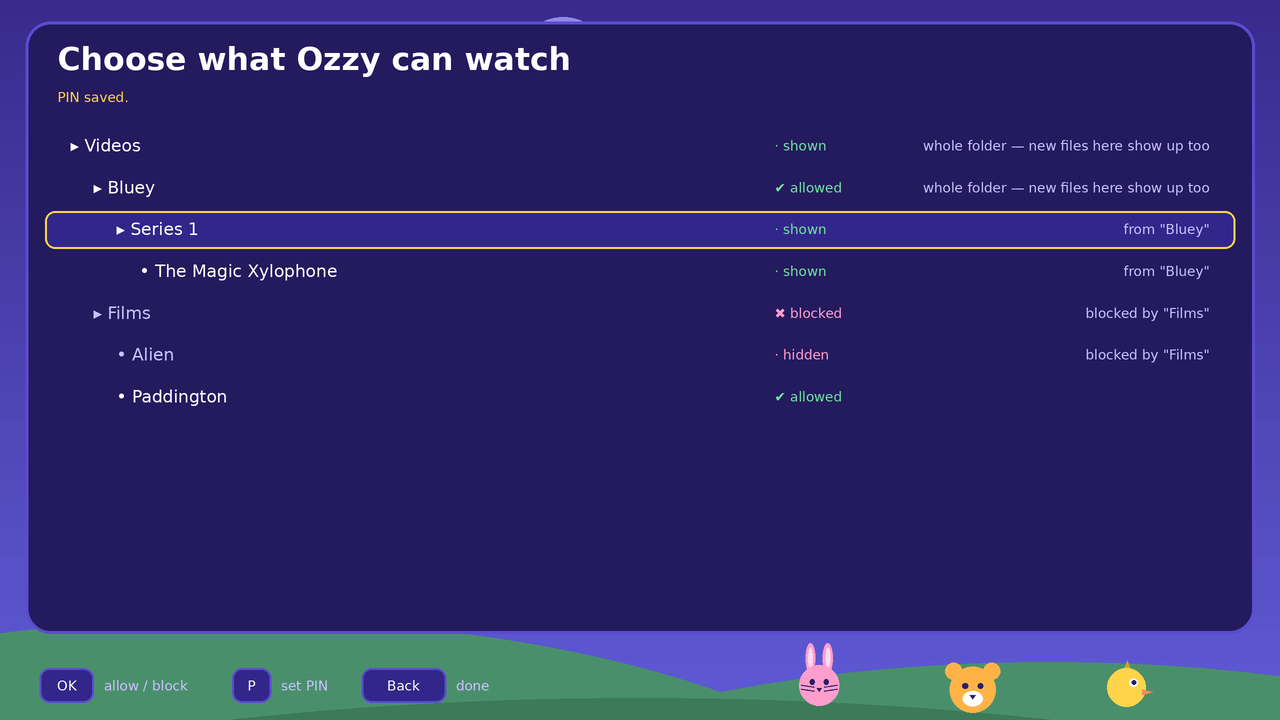
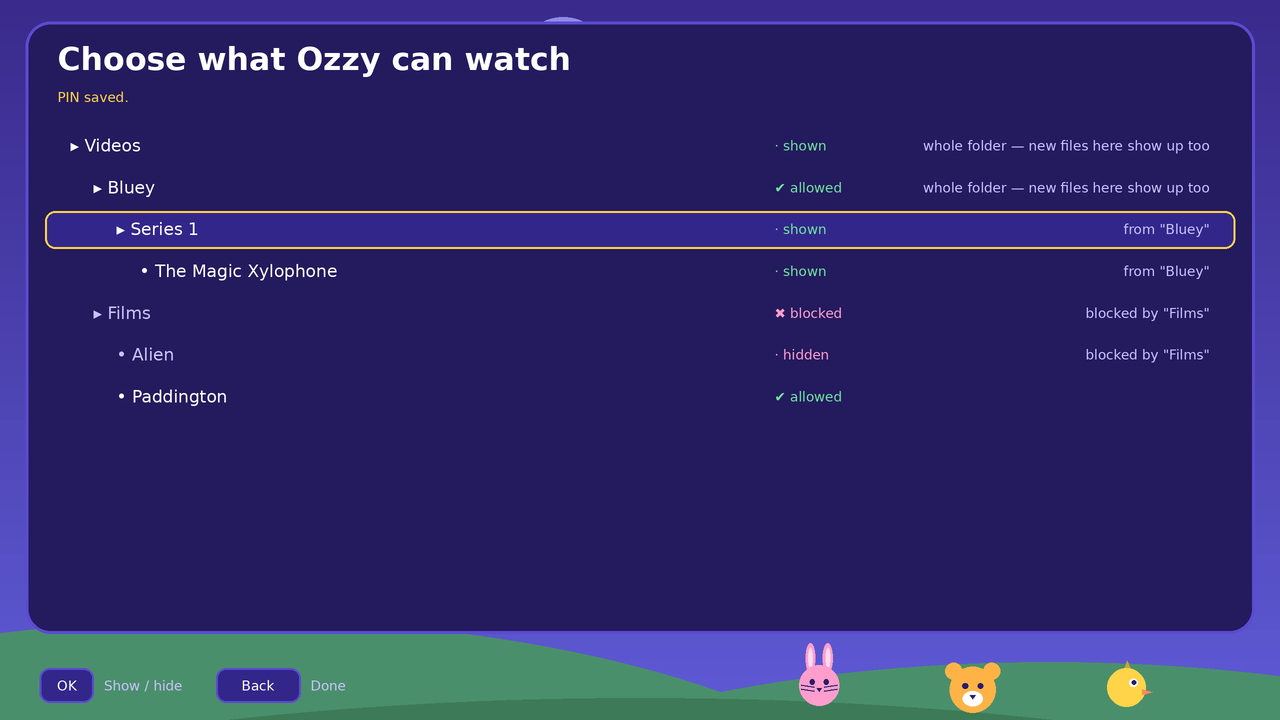
Add files via upload

Changed region(s): [[0.0938, 0.9167, 0.375, 0.9778]]

diff --git a/ozzytv/app.py b/ozzytv/app.py
@@ -362,6 +362,12 @@ class OzzyApp:
         the thing they had yesterday, whose name they cannot read.
         """
         rail: list[RailItem] = []
+        if self._current() is None:
+            # Home, always, at the top — not only when the drive is empty. It is
+            # where the DVD drive lives and the way in to Settings, and a menu
+            # that exists only when there is nothing to watch is not a menu.
+            rail.append(RailItem(title="Home", rel=HOME_KEY, root_index=-1,
+                                 count=len(self._home_tiles()), is_here=True))
         if self._current() is None and self._recent():
             rail.append(RailItem(title="Watch again", rel=RECENT_KEY, root_index=-1,
                                  count=len(self._recent()), is_here=True))
@@ -404,6 +410,8 @@ class OzzyApp:
         if not rail:
             return []
         sel = rail[min(self.rail_cursor, len(rail) - 1)]
+        if sel.rel == HOME_KEY:
+            return []                      # not library nodes; see view()
         if sel.rel == RECENT_KEY:
             return self._recent()
         if sel.rel == LOOSE_KEY:
@@ -448,6 +456,12 @@ class OzzyApp:
         if not rail:
             self._home_key(action)
             return
+        if rail[min(self.rail_cursor, len(rail) - 1)].rel == HOME_KEY \
+                and self.focus is Pane.GRID:
+            self._home_key(action)
+            if action is Action.BACK or (action is Action.LEFT):
+                self.focus = Pane.RAIL
+            return
         grid = self._grid()
         # One column: the shows are a LIST now, so Up and Down walk it one
         # at a time and Left is the way back to the shelves. The grid arithmetic
@@ -463,7 +477,8 @@ class OzzyApp:
             if action in (Action.UP, Action.DOWN) and rail:
                 self._rail_rel = rail[self.rail_cursor].rel
             elif action in (Action.RIGHT, Action.SELECT):
-                if grid:
+                on_home = rail[self.rail_cursor].rel == HOME_KEY
+                if grid or (on_home and self._home_tiles()):
                     self.focus = Pane.GRID
                     self.cursor = 0
             elif action is Action.BACK:
@@ -496,6 +511,13 @@ class OzzyApp:
             self._open(grid)
         elif action is Action.BACK:
             self.focus = Pane.RAIL
+
+    def _on_home(self) -> bool:
+        """Is the shelf under the cursor the Home shelf?"""
+        return self._rail_rel == HOME_KEY or (
+            self._current() is None and not self._rail_rel
+            and (self._rail()[self.rail_cursor].rel == HOME_KEY
+                 if self._rail() else False))
 
     def _home_key(self, action: Action) -> None:
         """The home screen with an empty library.
@@ -599,7 +621,8 @@ class OzzyApp:
                 self.cursor = 0
         elif kind == "tile":
             grid = self._grid()
-            if not self._rail():
+            r = self._rail()
+            if not r or r[min(self.rail_cursor, len(r) - 1)].rel == HOME_KEY:
                 tiles = self._home_tiles()
                 if 0 <= i < len(tiles):
                     self.cursor = i
@@ -631,6 +654,12 @@ class OzzyApp:
                     self.rail_cursor = i
                     return rail
         self.rail_cursor = min(self.rail_cursor, len(rail) - 1)
+        # Home is the first shelf, but it is not where you start. A child wants
+        # the thing they watched yesterday, not a disc drive — Home is one press
+        # UP from wherever they land, which is where a grown-up will look for it.
+        if (not self._rail_rel and len(rail) > 1
+                and rail[self.rail_cursor].rel == HOME_KEY):
+            self.rail_cursor = 1
         self._rail_rel = rail[self.rail_cursor].rel
         return rail
 
@@ -698,12 +727,17 @@ class OzzyApp:
         state = self.playback.tick()
         if state in (PlayState.ENDED, PlayState.ERROR):
             failed = state is PlayState.ERROR
+            what = self.playback.now.path if self.playback.now else ""
             self.playback.stop()
             self.screen = Screen.BROWSE
             if failed:
+                # Say WHICH file, and say where the reason is. "That one would
+                # not play" sent whoever had to fix it looking at the television
+                # instead of at the one place that knows: VLC's own log.
+                log.error("playback failed for %s", what)
                 self.screen = Screen.MESSAGE
-                self.message = ("That one would not play.\n\n"
-                                "Ask a grown-up to check it.")
+                self.message = (f"This would not play:\n{Path(what).name}\n\n"
+                                f"journalctl -u ozzytv@$USER -n 30")
 
     # -- the keypad --
     def _open_parent(self) -> None:
@@ -906,6 +940,14 @@ class OzzyApp:
                         cursor=min(self.cursor, max(0, len(self._home_tiles()) - 1)),
                         message=NOTHING_ALLOWED if any_media else NO_MEDIA,
                         welcome=welcome_steps(self.settings, allowed=any_media))
+        on_home = rail[min(self.rail_cursor, len(rail) - 1)].rel == HOME_KEY
+        if on_home:
+            home = self._home_tiles()
+            return View(screen=Screen.BROWSE.value, heading="Home",
+                        subheading="Ozzy TV", rail=rail,
+                        rail_cursor=self.rail_cursor, focus=self.focus.value,
+                        tiles=home, cursor=min(self.cursor, max(0, len(home) - 1)),
+                        can_go_back=bool(self._stack))
         items = self._grid()
         tiles = []
         for ri, n in items:

diff --git a/ozzytv/tkview.py b/ozzytv/tkview.py
@@ -26,6 +26,11 @@ log = logging.getLogger(__name__)
 TICK_MS = 250          # four times a second: smooth enough for a progress bar,
                        # idle enough to leave the CPU for decoding
 POINTER_IDLE_MS = 3000 # how long the mouse pointer stays visible after it stops
+# An ACTUAL arrow. cursor="" does not mean "the normal pointer" — it means "this
+# window has no cursor of its own", so X walks up to the root window and uses
+# whatever is there. With no desktop and no window manager, nothing ever set
+# that, and the root's default is X_cursor: the big black X.
+ARROW = "left_ptr"
 
 # Font role -> (family, weight, size as a fraction of the screen height). Kept
 # beside tools/mockup.py's copy of the same table; if they drift, a mockup stops
@@ -73,6 +78,9 @@ class TkView:
             # exactly like a crash. An explicit geometry needs no WM.
             self.root.geometry(
                 f"{self.root.winfo_screenwidth()}x{self.root.winfo_screenheight()}+0+0")
+            # ...and then believe the WINDOW, not the screen, when drawing. See
+            # _screen_size: winfo_screenwidth() is the X VIRTUAL screen, which
+            # is not the monitor.
             # The pointer is hidden further down, once the widgets it has to be
             # set on actually exist.
             self._hide_the_pointer = True
@@ -110,6 +118,8 @@ class TkView:
         self.root.bind("<Motion>", self._on_motion)
         self._hide_pointer_after = None
         self._hits: list[tuple[float, float, float, float, str]] = []
+        self._last_size = (0, 0)
+        self.canvas.bind("<Configure>", self._on_resize)
         self.root.protocol("WM_DELETE_WINDOW", lambda: None)   # no way out but the PIN
 
     # ------------------------------------------------------------------ input
@@ -121,13 +131,38 @@ class TkView:
         the mouse and let go of it.
         """
         try:
-            self._cursor("")
+            self._cursor(ARROW)
             if self._hide_pointer_after is not None:
                 self.root.after_cancel(self._hide_pointer_after)
             self._hide_pointer_after = self.root.after(
                 POINTER_IDLE_MS, lambda: self._cursor("none"))
         except Exception:
             log.debug("could not show the pointer", exc_info=True)
+
+    def _screen_size(self) -> tuple[int, int]:
+        """How big the picture really is.
+
+        The CANVAS, measured — that is the thing being drawn on. Not
+        winfo_screenwidth(), which is the X virtual screen: leave a framebuffer
+        bigger than the mode behind (xrandr will) and it reports double the real
+        width. Everything here is sized as a fraction of that number, so the
+        whole layout comes out at twice scale with the right-hand half off the
+        edge of the picture.
+
+        Before the window is mapped Tk reports 1, not 0, so the old `or 1280`
+        never fired and the first paint was laid out inside a single pixel.
+        """
+        w, h = self.canvas.winfo_width(), self.canvas.winfo_height()
+        if w < 320 or h < 240:
+            return 1280, 720
+        return w, h
+
+    def _on_resize(self, event) -> None:
+        """Re-lay-out when the real size turns out not to be what was asked for,
+        which with no window manager is the normal case."""
+        if (event.width, event.height) != self._last_size:
+            self._last_size = (event.width, event.height)
+            self.render()
 
     def _cursor(self, shape: str) -> None:
         """Set the pointer on EVERY widget, not just the toplevel.
@@ -230,8 +265,7 @@ class TkView:
     # ----------------------------------------------------------------- render
     def render(self) -> None:
         v = self.app.view()
-        w = self.canvas.winfo_width() or 1280
-        h = self.canvas.winfo_height() or 720
+        w, h = self._screen_size()
         sc = skin.build(v, w, h, columns=self.app.settings.columns,
                         rows=self.app.settings.rows)
         if v.screen == Screen.PLAYING.value:

diff --git a/ozzytv/skin.py b/ozzytv/skin.py
@@ -386,7 +386,7 @@ def _hints(sc: Scene, w: int, h: int, pairs: list[tuple[str, str]]) -> None:
 
 
 def _browse(sc: Scene, v, w: int, h: int, columns: int, rows: int) -> None:
-    rail_w = w * 0.285
+    rail_w = w * 0.30
     # ---- the rail
     sc.add(RoundRect(-h * 0.04, -h * 0.04, rail_w + h * 0.04, h + h * 0.08,
                      r=h * 0.05, fill=PANEL))
@@ -413,7 +413,7 @@ def _browse(sc: Scene, v, w: int, h: int, columns: int, rows: int) -> None:
         creature(sc, b.creature, cx, y + row_h / 2, row_h * 0.30, b.color)
         sc.add(Text(cx + row_h * 0.52, y + row_h / 2, item.title, font=H2,
                     fill=PILL_ON_INK if on else INK, anchor="w",
-                    wrap=rail_w - row_h - w * 0.07, max_lines=1))
+                    wrap=rail_w - row_h - w * 0.09, max_lines=2))
         if item.count:
             sc.add(Text(rail_w - w * 0.052, y + row_h / 2, str(item.count), font=SMALL,
                         fill=PILL_ON_INK if on else INK_DIM, anchor="e"))
@@ -434,13 +434,13 @@ def _browse(sc: Scene, v, w: int, h: int, columns: int, rows: int) -> None:
 
     if not v.tiles and v.welcome:
         _welcome(sc, v, mx, mw, w, h)
-        _hints(sc, w, h, [("P", "grown-ups"), ("OK", "choose")])
+        _hints(sc, w, h, [("OK", "Open"), ("P", "Settings")])
         return
 
     if not v.tiles:
         sc.add(Text(mx + mw / 2, h * 0.45, "Nothing on this shelf yet", font=H2,
                     fill=INK_DIM, anchor="center"))
-        _hints(sc, w, h, [("OK", "choose"), ("Back", "out")])
+        _hints(sc, w, h, [("OK", "Open"), ("Back", "Go back")])
         return
 
     # A LIST, not a grid of tiles. Big artwork is the right shape for six
@@ -492,7 +492,7 @@ def _browse(sc: Scene, v, w: int, h: int, columns: int, rows: int) -> None:
             cxp = mx + mw / 2 + (p - (pages - 1) / 2) * h * 0.030
             sc.add(Circle(cxp, h * 0.905, h * 0.0075,
                           fill=SUN if p == page else PANEL_EDGE))
-    _hints(sc, w, h, [("OK", "watch"), ("Back", "out"), ("P", "grown-ups")])
+    _hints(sc, w, h, [("OK", "Play"), ("Back", "Go back"), ("P", "Settings")])
 
 
 def _playing(sc: Scene, v, w: int, h: int, columns: int, rows: int) -> None:
@@ -517,7 +517,7 @@ def _playing(sc: Scene, v, w: int, h: int, columns: int, rows: int) -> None:
            RoundRect(bx, by, max(h * 0.020, bw2 * frac), h * 0.020, r=h * 0.010, fill=SUN),
            Circle(bx + bw2 * frac, by + h * 0.010, h * 0.019, fill=FOCUS))
     sc.add(Text(w / 2, y + bar_h * 0.68, "Paused", font=BODY, fill=INK_DIM, anchor="center"))
-    _hints(sc, w, h, [("OK", "carry on"), ("Back", "stop"), ("+ -", "louder")])
+    _hints(sc, w, h, [("OK", "Resume"), ("Back", "Stop"), ("+ -", "Volume")])
 
 
 def _welcome(sc: Scene, v, mx: float, mw: float, w: int, h: int) -> None:
@@ -599,7 +599,7 @@ def _parent(sc: Scene, v, w: int, h: int, columns: int, rows: int) -> None:
                     fill="#6fe3a0" if row.effective else "#ff9ecd", anchor="w"),
                Text(w - w * 0.055, y + row_h * 0.30, row.note, font=SMALL,
                     fill=INK_DIM, anchor="e", wrap=w * 0.26, max_lines=1))
-    _hints(sc, w, h, [("OK", "allow / block"), ("P", "set PIN"), ("Back", "done")])
+    _hints(sc, w, h, [("OK", "Show / hide"), ("Back", "Done")])
 
 
 def _message(sc: Scene, v, w: int, h: int, columns: int, rows: int) -> None:
@@ -611,7 +611,7 @@ def _message(sc: Scene, v, w: int, h: int, columns: int, rows: int) -> None:
     creature(sc, "dog", x + cw * 0.70, y + ch * 0.31, h * 0.062, "#ffd449")
     sc.add(Text(x + cw / 2, y + ch * 0.68, v.message, font=H2, fill=INK,
                 anchor="center", wrap=cw * 0.82, max_lines=5))
-    _hints(sc, w, h, [("P", "grown-ups")])
+    _hints(sc, w, h, [("P", "Settings")])
 
 
 def _clock(ms: int) -> str:

diff --git a/tests/test_the_mouse.py b/tests/test_the_mouse.py
@@ -108,7 +108,12 @@ class TestThePointerItself:
         tkview._on_motion(types.SimpleNamespace(x=10, y=10))
         cursors = [kw.get("cursor") for n, a, kw in tkview.root.calls
                    if n == "config" and "cursor" in kw]
-        assert "" in cursors, "the pointer never reappears"
+        assert any(c and c != "none" for c in cursors), "the pointer never reappears"
+        # NOT "" — that means "this window has no cursor of its own", so X walks
+        # up to the root window, and with no desktop that is X_cursor: a big
+        # black X. It has to be an actual named shape.
+        assert "" not in cursors, 'cursor="" inherits the root X'
+
 
     def test_a_click_outside_everything_does_nothing(self, tkview):
         import types
@@ -171,8 +176,9 @@ class TestTheFirstBootScreen:
 
     def test_its_tiles_are_clickable_like_any_others(self, empty_tv):
         app = empty_tv
+        app.handle(Action.SELECT)          # rail -> the Home tiles
         v = app.view()
-        assert v.welcome, "not the first-boot screen"
+        assert v.heading == "Home", "not the Home shelf"
         assert v.tiles, "a home screen with nothing on it to press"
         sc = skin.build(v, 1280, 720, columns=3, rows=2)
         targets = {i.hit for i in sc.items if isinstance(i, RoundRect) and i.hit}

diff --git a/tests/test_app.py b/tests/test_app.py
@@ -39,7 +39,9 @@ class TestWhatIsOnTheDriveIsWhatIsOnTheScreen:
         a = OzzyApp(settings, store, player, clock=clock)
         settings.media_roots = [str(tmp_path / "nothing")]
         a = OzzyApp(settings, store, player, clock=clock)
-        joined = " ".join(t + " " + b for t, b in a.view().welcome).lower()
+        from ozzytv.app import welcome_steps
+        joined = " ".join(t + " " + b
+                          for t, b in welcome_steps(a.settings, allowed=False)).lower()
         assert any(str(r).lower() in joined for r in a.settings.roots)
 
     def test_blocking_one_folder_hides_only_that(self, app, store):
@@ -405,4 +407,4 @@ class TestNothingCrashesTheTelevision:
         app.rescan()
         v = app.view()
         assert v.screen == Screen.BROWSE.value, "the menu vanished with the drive"
-        assert v.welcome, "and left nothing saying what to do about it"
+        assert v.rail and v.tiles, "and left nothing on the screen"

diff --git a/ozzytv/playback.py b/ozzytv/playback.py
@@ -100,7 +100,12 @@ class VlcPlayer:
         if "://" in text:
             media = self._instance.media_new(text)
         else:
+            if not Path(text).exists():
+                # The commonest cause of "nothing happens", and the one libVLC
+                # reports by simply never leaving the opening state.
+                log.error("cannot play %s: no such file", text)
             media = self._instance.media_new_path(text)
+        log.info("opening %s", text)
         self._mp.set_media(media)
         self._duration_hint = 0
         self._mp.play()

diff --git a/README.md b/README.md
@@ -2,7 +2,8 @@
 
 ![Ozzy TV](docs/mockups/logo.png)
 
-A television app for a toddler, on a Raspberry Pi 3.
+A television for a small child, on a Raspberry Pi 3, with VLC doing the playing
+and a grown-up holding the keys.
 
 Roku-shaped menus — a list of shelves down the left, big tiles across the right,
 one unmistakable selection — painted for a two-year-old: a sky with clouds and
